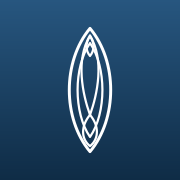
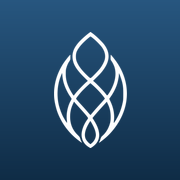
fix(marca): usa o símbolo OFICIAL (folha entrelaçada) no app e nos ícones
A versão anterior do emblema era uma recriação simplificada que
distorcia o desenho. Substituída pelo símbolo oficial vetorial
(entrelaçado), sem alterar os traços — apenas recortado ao símbolo e
recolorido para as cores do projeto.

- BrandMark: path oficial com fill=currentColor (navy no claro, branco
  na sidebar) → corrige a logo no login e na sidebar.
- public/logo.svg (favicon): símbolo oficial em navy.
- public/apple-touch-icon.png: símbolo oficial branco sobre navy, para
  a Tela de Início do iPhone.
- scripts/gen-apple-icon.mjs: gerador atualizado (recorte via trim,
  sharp com --no-save; não é dependência do app).

Sem mudanças de layout, rotas, Supabase ou funcionalidades.

https://claude.ai/code/session_01Lc6o9RCWSeGEssad5BbNym

Changed region(s): [[0.2778, 0.1389, 0.7222, 0.8611]]

diff --git a/src/components/BrandMark.tsx b/src/components/BrandMark.tsx
@@ -1,33 +1,21 @@
 import { cn } from "@/lib/utils";
 
 /**
- * Emblema da marca Blue Senior Living — recriação vetorial elegante (vesica
- * entrelaçada) que herda a cor via `currentColor`. Para usar a arte oficial,
- * salve o arquivo em `public/logo.png` (a tela de seleção passa a usá-lo).
+ * Emblema da marca Blue Senior Living — SÍMBOLO OFICIAL (folha entrelaçada),
+ * vetor da identidade. Herda a cor via `currentColor` (navy `text-secondary`
+ * em fundo claro, `text-white` na sidebar). O viewBox está recortado ao
+ * símbolo; o transform é o do arquivo oficial (não altera o desenho).
  */
 export function BrandMark({ className }: { className?: string }) {
   return (
     <svg
-      viewBox="0 0 100 150"
-      fill="none"
-      stroke="currentColor"
-      strokeWidth={2.2}
-      strokeLinecap="round"
-      strokeLinejoin="round"
+      viewBox="573.5 196 255.3 399"
       className={cn("text-current", className)}
       aria-hidden="true"
     >
-      {/* vesica externa */}
-      <path d="M50 8 C80 44 80 106 50 142 C20 106 20 44 50 8 Z" />
-      {/* vesica interna */}
-      <path d="M50 24 C68 50 68 100 50 126 C32 100 32 50 50 24 Z" strokeWidth={1.6} />
-      {/* fios entrelaçados */}
-      <path d="M50 16 C34 42 42 80 50 102" strokeWidth={1.6} />
-      <path d="M50 16 C66 42 58 80 50 102" strokeWidth={1.6} />
-      {/* laço inferior */}
-      <path d="M50 102 C40 114 40 128 50 136 C60 128 60 114 50 102 Z" strokeWidth={1.6} />
-      {/* gota superior */}
-      <path d="M50 16 C45 24 45 32 50 38 C55 32 55 24 50 16 Z" strokeWidth={1.6} />
+      <g transform="translate(0,1122) scale(0.1,-0.1)" fill="currentColor">
+        <path d="M6945 9154 c-104 -78 -255 -216 -323 -293 -150 -172 -212 -310 -212 -471 0 -228 99 -410 372 -683 l138 -137 -37 -32 c-81 -67 -322 -317 -372 -385 -30 -40 -57 -73 -61 -73 -11 0 -91 130 -138 225 -92 184 -127 328 -126 510 1 118 4 139 33 227 19 60 49 124 76 164 45 66 45 68 45 152 l0 85 -22 -19 c-41 -36 -176 -212 -231 -301 -194 -314 -290 -635 -290 -968 0 -173 13 -273 53 -435 38 -152 70 -240 140 -385 142 -292 360 -556 625 -754 119 -89 123 -91 98 -50 -12 19 -30 63 -40 99 -16 59 -25 72 -99 145 -174 171 -253 384 -241 649 6 136 33 244 93 375 l35 76 52 -60 c29 -33 108 -120 176 -195 142 -155 241 -276 241 -293 0 -7 -16 -35 -36 -62 -91 -128 -154 -277 -175 -413 -30 -196 53 -377 224 -486 31 -20 61 -36 67 -36 22 0 118 70 167 123 179 189 165 453 -41 785 l-58 93 67 82 c37 45 144 167 238 270 l172 189 37 -79 c64 -132 90 -254 91 -418 0 -113 -4 -155 -22 -220 -43 -159 -130 -308 -240 -407 -50 -45 -61 -62 -76 -113 -9 -33 -25 -75 -36 -94 -11 -18 -18 -35 -16 -37 6 -6 136 92 235 178 216 189 412 454 534 723 283 624 196 1309 -239 1875 -70 91 -129 160 -136 160 -2 0 -5 -39 -6 -86 -1 -79 1 -88 25 -116 33 -41 88 -149 108 -218 72 -238 14 -531 -163 -823 -27 -46 -58 -91 -69 -100 -19 -17 -21 -15 -74 55 -54 72 -282 309 -366 382 l-44 38 119 116 c140 137 191 197 266 312 180 278 176 523 -13 780 -62 84 -262 278 -368 358 -46 34 -86 62 -90 62 -4 0 -34 -21 -67 -46z m148 -161 c99 -77 256 -238 307 -313 90 -133 119 -269 86 -400 -20 -78 -88 -207 -153 -292 -53 -70 -253 -279 -296 -310 -35 -25 -40 -23 -173 108 -165 163 -260 295 -316 439 -32 84 -32 234 1 315 32 77 97 171 188 269 75 82 257 241 275 241 5 0 41 -25 81 -57z m-998 -1406 c34 -166 128 -379 231 -530 30 -43 54 -83 54 -88 0 -5 -13 -33 -29 -62 -101 -179 -153 -429 -131 -628 6 -56 9 -103 7 -106 -8 -7 -92 128 -141 224 -51 103 -117 291 -140 403 -67 326 -36 666 87 958 l32 77 7 -85 c3 -47 14 -120 23 -163z m1928 83 c67 -195 82 -297 82 -535 -1 -194 -3 -219 -29 -329 -35 -150 -75 -263 -136 -391 -50 -103 -136 -245 -149 -245 -4 0 -4 24 0 53 29 206 -8 434 -107 647 l-47 100 60 88 c84 120 157 267 199 396 33 103 63 260 64 336 l1 35 13 -25 c8 -14 30 -72 49 -130z m-949 -234 c152 -133 313 -306 395 -424 l23 -33 -35 -42 c-19 -23 -92 -105 -163 -182 -70 -77 -161 -180 -202 -230 -41 -49 -78 -91 -81 -93 -4 -1 -50 48 -102 110 -53 62 -134 154 -180 203 -118 127 -199 221 -199 231 0 16 108 153 193 247 72 78 273 267 285 267 3 0 32 -24 66 -54z m27 -1371 c60 -120 88 -217 89 -301 0 -96 -57 -208 -140 -274 l-40 -32 -29 21 c-55 39 -119 121 -138 174 -46 133 -5 304 120 510 l42 67 18 -22 c9 -13 45 -77 78 -143z" />
+      </g>
     </svg>
   );
 }
